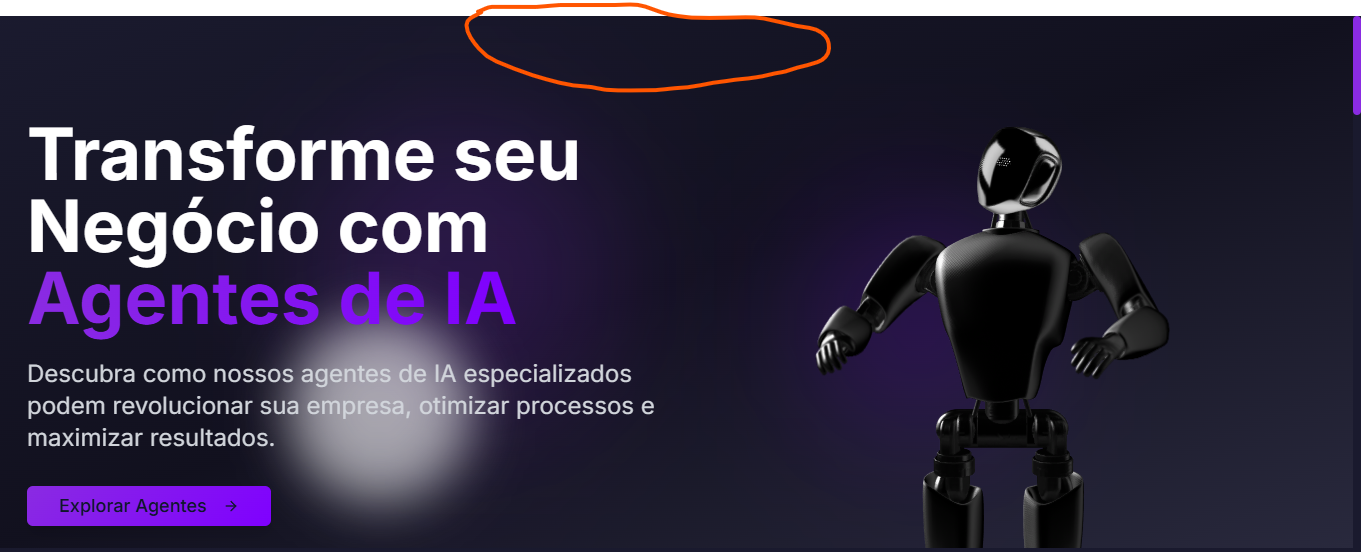
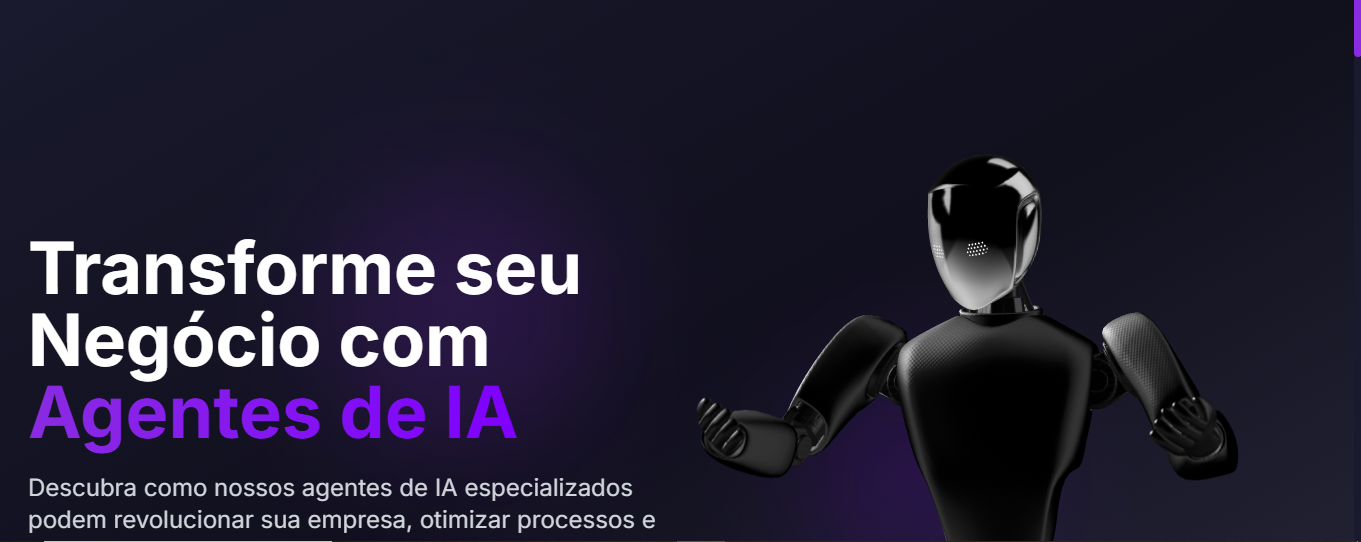
Restored to 'ab84ec73871c3428c630e7bf773f70cfa325f6bb'
Replit-Restored-To: ab84ec73871c3428c630e7bf773f70cfa325f6bb

diff --git a/src/pages/Home.tsx b/src/pages/Home.tsx
@@ -48,19 +48,21 @@ const Home: React.FC = () => {
       {/* Hero Section */}
       <section className="relative min-h-screen flex flex-col items-center justify-center overflow-hidden">
         <div className="absolute inset-0 bg-gradient-to-br from-nexus-dark via-nexus-darker to-nexus-light opacity-90"></div>
-        <div className="absolute inset-0 overflow-hidden">
-          <div className="absolute bottom-20 left-1/4 w-48 h-48 bg-nexus-purple/20 rounded-full blur-3xl animate-pulse-glow"></div>
-          <div className="absolute bottom-32 right-1/4 w-32 h-32 bg-nexus-violet/20 rounded-full blur-3xl animate-pulse-glow"></div>
+        <div className="absolute inset-0">
+          <div className="absolute top-1/4 left-1/4 w-64 h-64 bg-nexus-purple/20 rounded-full blur-3xl animate-pulse-glow"></div>
+          <div className="absolute bottom-1/4 right-1/4 w-48 h-48 bg-nexus-violet/20 rounded-full blur-3xl animate-pulse-glow"></div>
         </div>
         
-        {/* Logo no topo */}
-        <div className="absolute top-8 left-1/2 transform -translate-x-1/2 z-10">
+        <Spotlight className="-top-40 left-0 md:left-60 md:-top-20" />
+        
+        {/* Logo */}
+        <div className="relative mb-12">
           <Link to="/" className="flex items-center justify-center space-x-3 hover-scale">
             <span className="text-3xl font-bold gradient-text">Solandox</span>
           </Link>
         </div>
         
-        <div className="relative container mx-auto px-4 sm:px-6 lg:px-8 grid grid-cols-1 lg:grid-cols-2 gap-8 items-center pt-20 pb-10">
+        <div className="relative container mx-auto px-4 sm:px-6 lg:px-8 grid grid-cols-1 lg:grid-cols-2 gap-8 items-center"></div>
           {/* Left content */}
           <div className="text-center lg:text-left">
             <h1 className="text-4xl md:text-6xl lg:text-7xl font-bold mb-6 animate-fade-in">
@@ -84,8 +86,8 @@ const Home: React.FC = () => {
           </div>
 
           {/* Right content - 3D Robot */}
-          <div className="relative h-[350px] lg:h-[400px] overflow-hidden">
-            <SplineScene scene="https://prod.spline.design/kZDDjO5HuC9GJUM2/scene.splinecode" className="w-full h-full object-contain" />
+          <div className="relative h-[400px] lg:h-[500px]">
+            <SplineScene scene="https://prod.spline.design/kZDDjO5HuC9GJUM2/scene.splinecode" className="w-full h-full" />
           </div>
         </div>
       </section>

diff --git a/src/index.css b/src/index.css
@@ -51,20 +51,6 @@
 
   * {
     @apply border-border;
-    margin: 0;
-    padding: 0;
-    box-sizing: border-box;
-  }
-
-  html, body {
-    overflow-x: hidden;
-    width: 100%;
-    position: relative;
-  }
-  
-  section {
-    position: relative;
-    overflow: hidden;
   }
 
   body {
